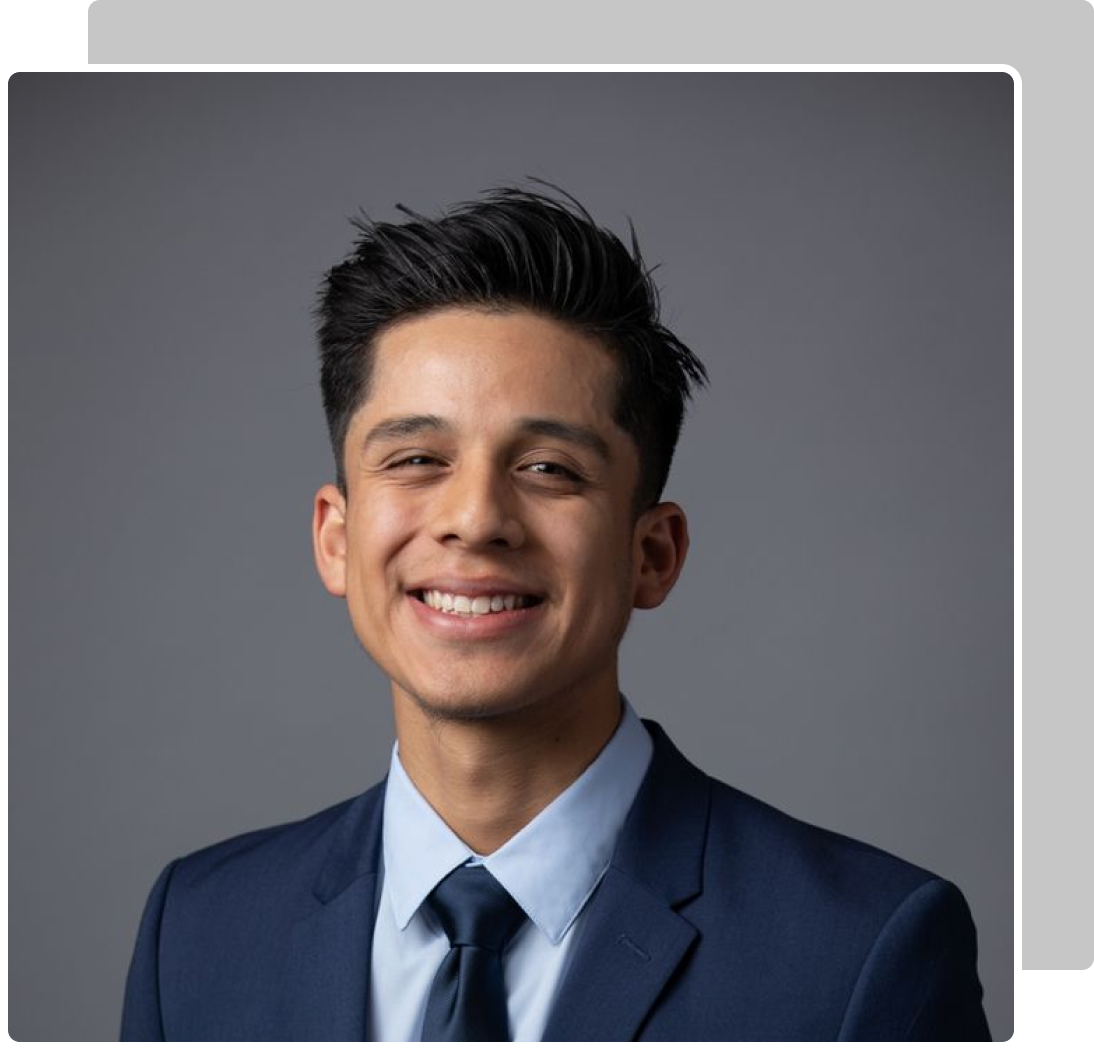
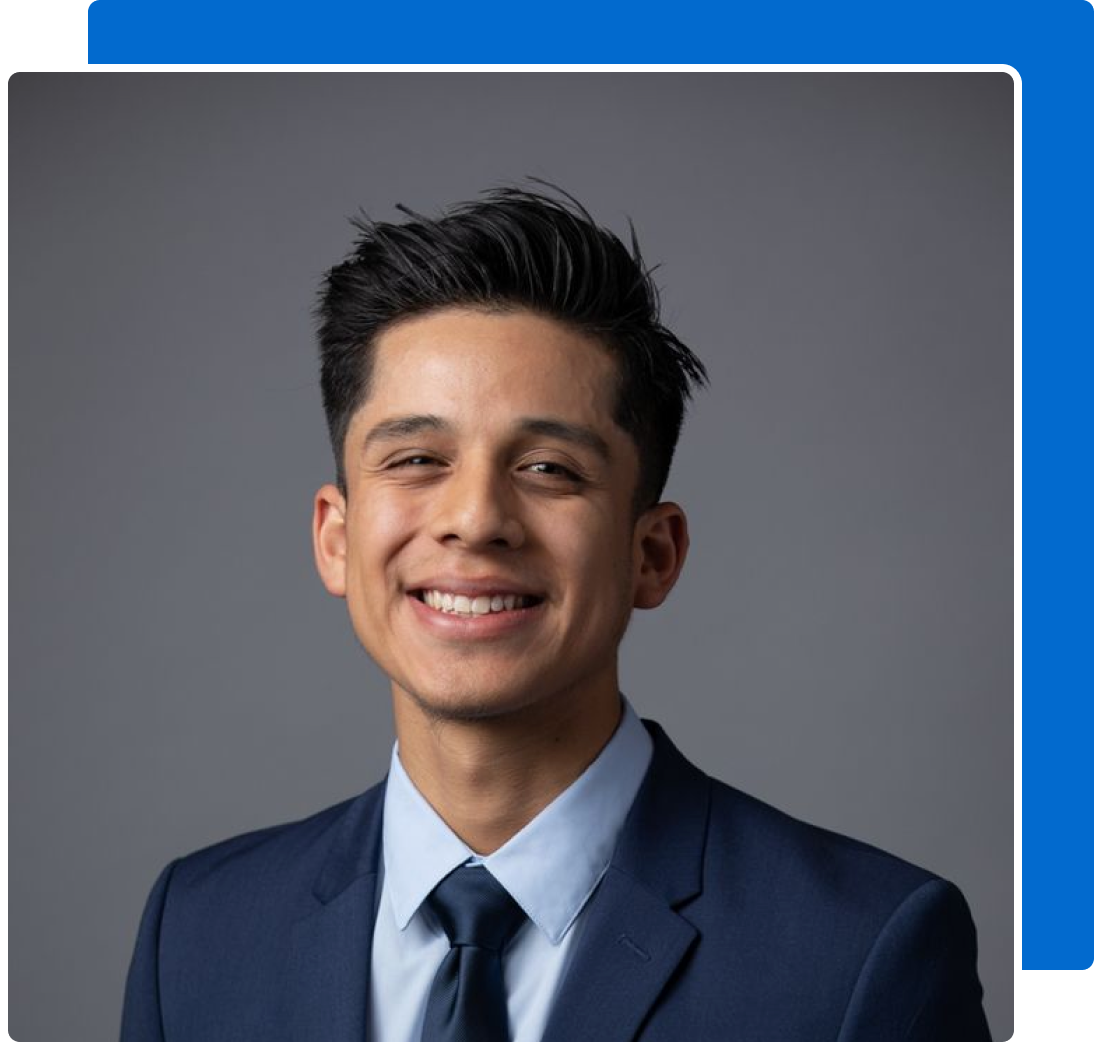
updated styles

Changed region(s): [[0.0622, 0.0, 1.0, 0.9448]]

diff --git a/src/gatsby-theme-portfolio-minimal/globalStyles/prism.css b/src/gatsby-theme-portfolio-minimal/globalStyles/prism.css
@@ -1,0 +1,128 @@
+/* PrismJS 1.28.0
+/**
+*  Modified theme for gatsby-theme-portfolio-minimal
+ * based on joshwcomeau.com code blocks styling
+ * @author chrisley304
+ */
+
+/* Fira Code font import */
+@import url('https://fonts.googleapis.com/css2?family=Fira+Code:wght@400;700&display=swap');
+
+code[class*='language-'],
+pre[class*='language-'] {
+	color: var(--primary-color);
+	background: none;
+	font-family: 'Fira Code', Consolas, Monaco, 'Andale Mono', 'Ubuntu Mono',
+		monospace;
+	font-size: 1rem;
+	text-align: left;
+	white-space: pre;
+	word-spacing: normal;
+	word-break: normal;
+	word-wrap: normal;
+	line-height: 1.5;
+
+	-moz-tab-size: 4;
+	-o-tab-size: 4;
+	tab-size: 4;
+
+	-webkit-hyphens: none;
+	-moz-hyphens: none;
+	-ms-hyphens: none;
+	hyphens: none;
+}
+
+/* Code blocks */
+pre[class*='language-'] {
+	padding: 1em;
+	margin: 0.5em 0;
+	overflow: auto;
+	border-radius: 1.2em;
+}
+
+:not(pre) > code[class*='language-'],
+pre[class*='language-'] {
+	background: var(--code-block-bg);
+}
+
+/* Inline code */
+:not(pre) > code[class*='language-'] {
+	padding: 0.3em;
+	/* font-size: 0.9rem; */
+	border-radius: 0.4em;
+	white-space: normal;
+}
+
+.token.comment,
+.token.prolog,
+.token.doctype,
+.token.cdata {
+	color: var(--code-block-comment);
+}
+
+.token.punctuation {
+	color: var(--primary-color);
+}
+
+.token.namespace {
+	opacity: 0.7;
+}
+
+.token.property,
+.token.tag,
+.token.constant,
+.token.symbol,
+.token.deleted {
+	color: var(--code-block-var);
+}
+
+.token.boolean,
+.token.number {
+	color: var(--code-block-num);
+}
+
+.token.selector,
+.token.attr-name,
+.token.string,
+.token.char,
+.token.builtin,
+.token.inserted {
+	color: var(--code-block-fun);
+}
+
+.token.operator,
+.token.entity,
+.token.url,
+.language-css .token.string,
+.style .token.string,
+.token.variable {
+	color: var(--primary-color);
+}
+
+.token.atrule,
+.token.attr-value,
+.token.function,
+.token.class-name {
+	color: var(--code-block-fun);
+}
+
+.token.keyword {
+	color: var(--code-block-keyword);
+}
+
+.token.regex,
+.token.important {
+	color: var(--code-block-tkimp);
+}
+
+.token.important,
+.token.bold {
+	font-weight: bold;
+}
+.token.italic {
+	font-style: italic;
+}
+
+.token.entity {
+	cursor: help;
+}

diff --git a/src/gatsby-theme-portfolio-minimal/globalStyles/global.css b/src/gatsby-theme-portfolio-minimal/globalStyles/global.css
@@ -1,0 +1,122 @@
+@import 'normalize.css';
+
+/* GLOBAL VARIABLES */
+:root {
+	--breakpoint-xs: 480px;
+	--breakpoint-sm: 768px;
+	--breakpoint-md: 992px;
+	--breakpoint-lg: 1200px;
+	--border-radius: 1rem;
+	--page-width: 62.5rem;
+	--page-padding: 0 2.5rem;
+	--header-height: 6.25rem;
+	--footer-height: 7.5rem;
+}
+
+/* GLOBAL STYLES */
+* {
+	box-sizing: border-box;
+}
+
+html {
+	width: 100%;
+	height: 100%;
+	scroll-behavior: smooth;
+}
+
+body {
+	width: 100%;
+	height: 100%;
+	background-color: var(--background-color);
+	color: var(--text-color);
+	font-size: 1rem;
+	font-family: var(--base-font);
+	line-height: 1.5rem;
+	font-weight: 400;
+	text-rendering: optimizeLegibility;
+}
+
+body.fixed {
+	position: fixed;
+	overflow: hidden;
+}
+
+a {
+	display: inline-block;
+	text-decoration: none;
+	text-decoration-skip-ink: auto;
+	color: var(--subtext-color);
+	cursor: pointer;
+}
+
+a:hover {
+	outline: 0;
+}
+
+a:focus {
+	outline-color: var(--subtext-color);
+	outline-style: dotted;
+	outline-width: 2px;
+}
+
+h1 {
+	font-weight: 700;
+	font-size: 1.75rem;
+	line-height: 2rem;
+	color: var(--primary-color);
+	margin: 1rem 0;
+}
+
+h2 {
+	font-weight: 700;
+	font-size: 1.625rem;
+	line-height: 2rem;
+	color: var(--primary-color);
+	margin: 2rem 0 1rem 0;
+}
+
+h3 {
+	font-weight: 700;
+	font-size: 1.375rem;
+	line-height: 2rem;
+	color: var(--primary-color);
+	margin: 2rem 0 1rem 0;
+}
+
+h4 {
+	font-weight: 700;
+	font-size: 1.125rem;
+	line-height: 2rem;
+	color: var(--primary-color);
+	margin: 2rem 0 1rem 0;
+}
+
+hr {
+	margin: 3rem auto;
+	border-width: 0.05rem;
+	color: var(--tertiary-color);
+	opacity: 0.1;
+}
+
+u {
+	text-decoration: none;
+	box-shadow: inset 0 -0.5em 0 var(--secondary-color);
+	transition: box-shadow 0.3s ease-out;
+}
+
+u:hover {
+	box-shadow: inset 0 -1em 0 var(--secondary-color);
+}
+
+#___gatsby,
+#gatsby-focus-wrapper {
+	width: 100%;
+	height: 100%;
+}
+
+/* Disable smooth scrolling when users have prefers-reduced-motion enabled */
+@media screen and (prefers-reduced-motion: reduce) {
+	html {
+		scroll-behavior: auto;
+	}
+}

diff --git a/src/gatsby-theme-portfolio-minimal/globalStyles/theme.css b/src/gatsby-theme-portfolio-minimal/globalStyles/theme.css
@@ -1,6 +1,6 @@
 body[data-theme='lightTheme'] {
 	--primary-color: #000000;
-	--secondary-color: #fff4d9;
+	--secondary-color: #026ace;
 	--tertiary-color: #f2f2f2;
 	--text-color: #000000;
 	--subtext-color: #555555;
@@ -21,7 +21,7 @@ body[data-theme='lightTheme'] {
 
 body[data-theme='darkTheme'] {
 	--primary-color: #fafafa;
-	--secondary-color: red;
+	--secondary-color: #026ace;
 	--tertiary-color: #252525;
 	--text-color: rgba(255, 255, 255, 0.87);
 	--subtext-color: #aaaaaa;

diff --git a/src/pages/index.js b/src/pages/index.js
@@ -9,6 +9,7 @@ import {
 	ProjectsSection,
 	Seo,
 } from 'gatsby-theme-portfolio-minimal';
+import '../gatsby-theme-portfolio-minimal/globalStyles/theme.css';
 
 export default function IndexPage() {
 	return (
